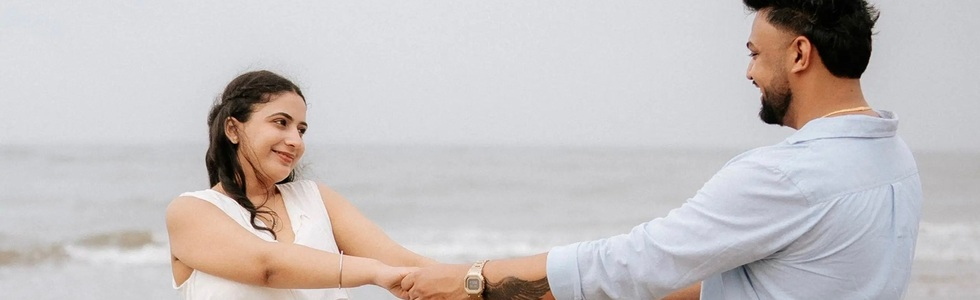
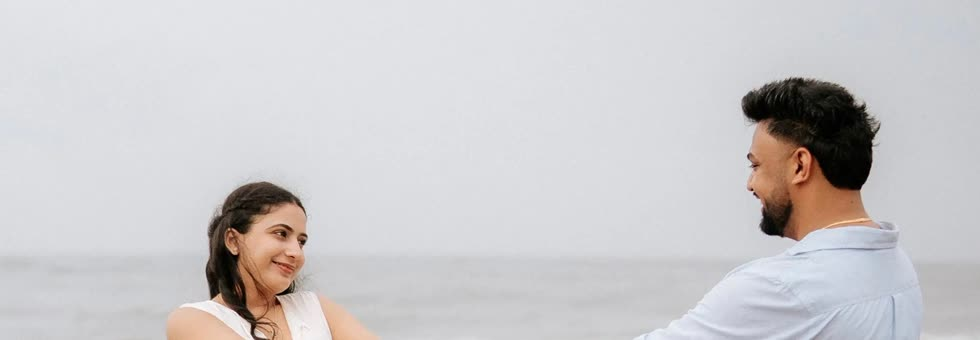
Refine Day 2 photo and panels

diff --git a/app/globals.css b/app/globals.css
@@ -1129,16 +1129,17 @@ p {
 .clone-day2-modules {
   margin-top: 1.1rem;
   display: grid;
-  grid-template-columns: 1fr 1.45fr 1fr;
+  grid-template-columns: minmax(0, 1.06fr) minmax(0, 1.48fr) minmax(0, 1.06fr);
   gap: 1rem;
-  align-items: start;
+  align-items: stretch;
 }
 
 .clone-day2-panel {
   display: flex;
+  height: 100%;
   min-width: 0;
   flex-direction: column;
-  padding: 1rem;
+  padding: 1rem 1.05rem;
 }
 
 .clone-day2-panel h3 {
@@ -1197,7 +1198,7 @@ p {
 .clone-facts-panel > div {
   display: grid;
   grid-template-columns: 1fr 1fr;
-  gap: 0.75rem 0.9rem;
+  gap: 0.72rem 0.95rem;
   align-items: start;
 }
 

diff --git a/components/pages/day-2-page.tsx b/components/pages/day-2-page.tsx
@@ -5,7 +5,6 @@ import {
   Car,
   Clock,
   Coffee,
-  Globe2,
   Heart,
   MapPin,
   Music2,
@@ -36,7 +35,7 @@ export function Day2Page() {
         src="/images/clone-assets/day2-couple-landscape-2754.jpg"
         alt="Shefali and Raj holding hands on the Goa shoreline"
         width={980}
-        height={300}
+        height={340}
         className="clone-wide-photo"
       />
 
@@ -135,7 +134,6 @@ function CoupleFacts() {
     utensils: UtensilsCrossed,
     pizza: Heart,
     dance: Users,
-    globe: Globe2,
   };
   return (
     <article className="clone-day2-panel clone-facts-panel">

diff --git a/lib/content.ts b/lib/content.ts
@@ -221,10 +221,6 @@ export const day2 = {
       icon: "dance",
       text: "One loves the dance floor. The other loves playing music. This explains a lot.",
     },
-    {
-      icon: "globe",
-      text: "Opposite backgrounds. Different personalities. Same destination. After years of friendship, countless adventures, and one life-changing trip, from best friends to forever.",
-    },
   ] as const,
   headlinesTitle: "Today's Headlines",
   headlines: [